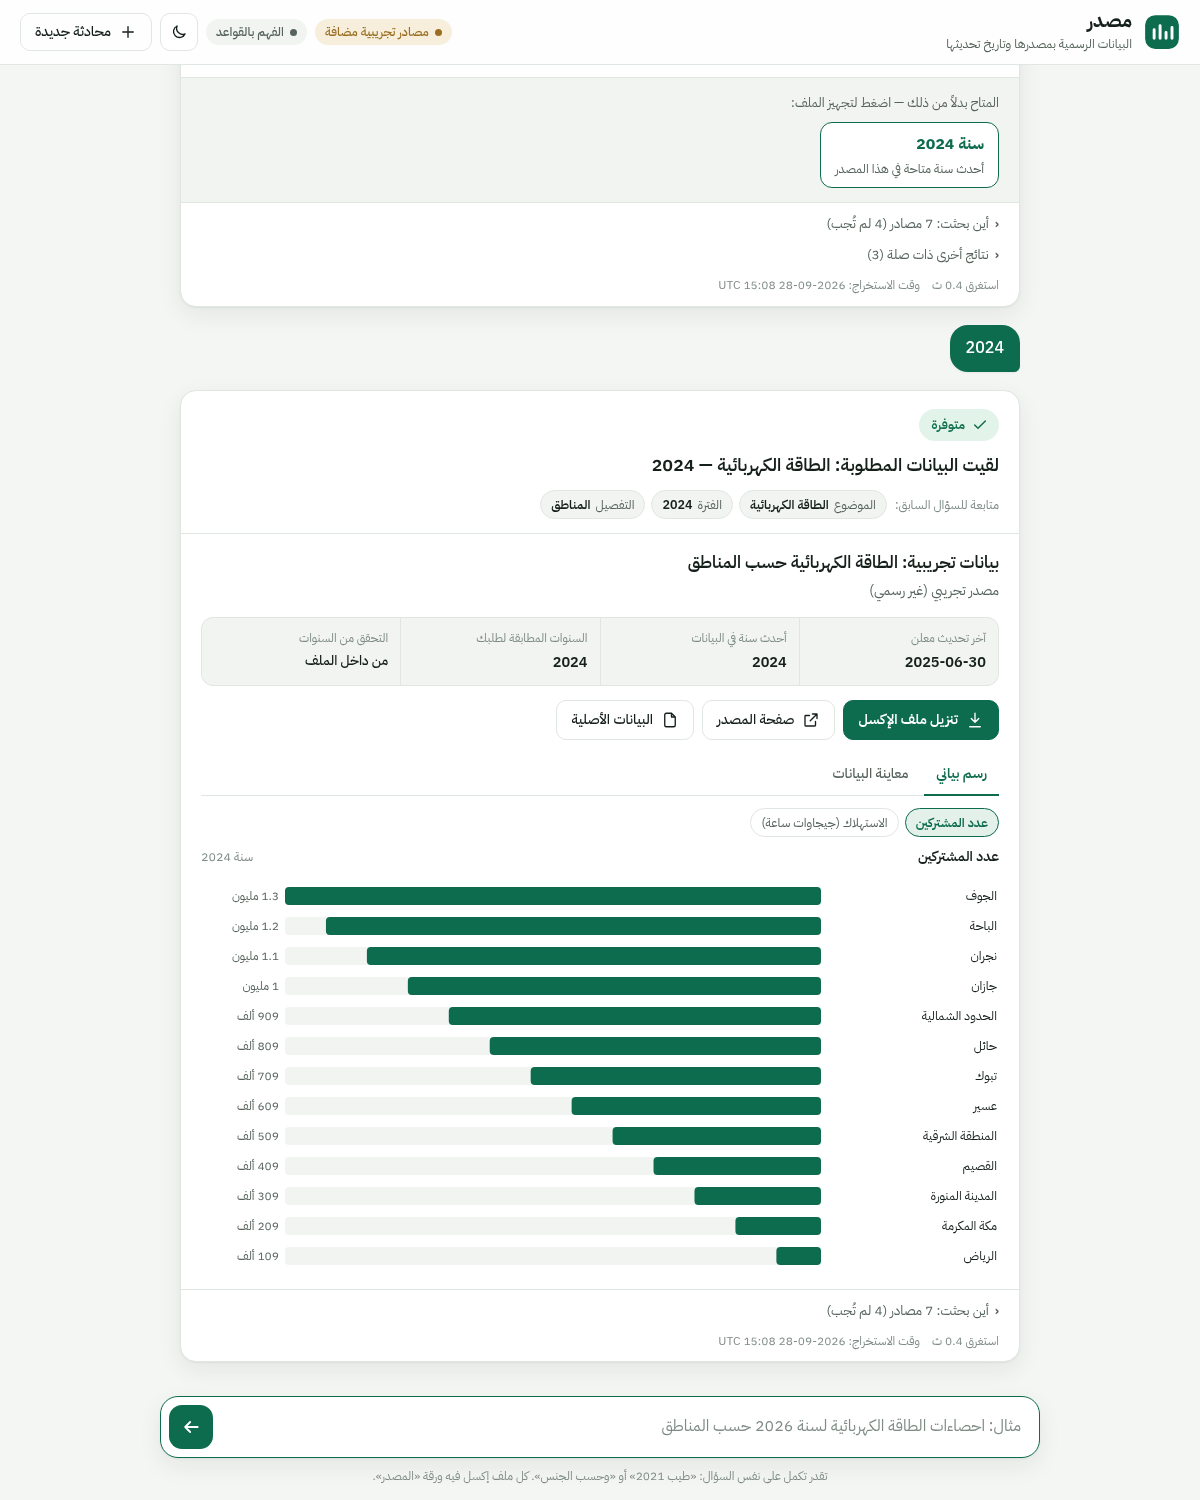
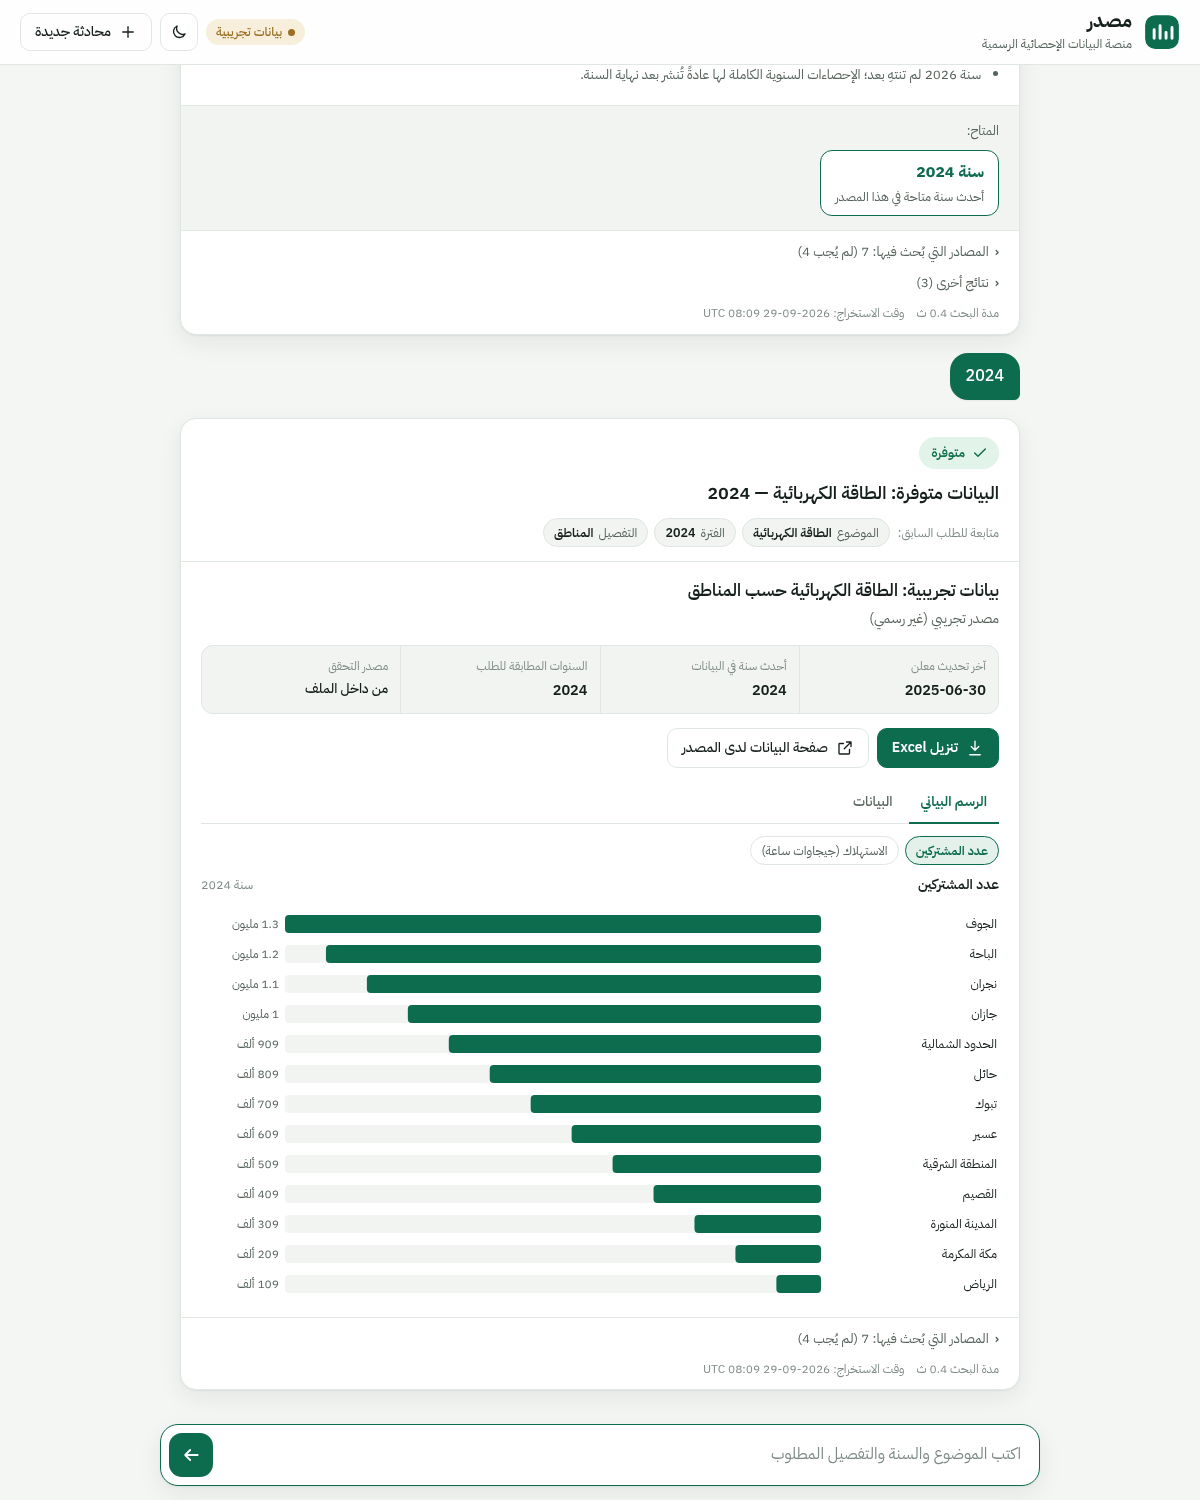
Point the presenter to the slides; screenshots of the official interface
The explanation that used to fill the landing page now lives in a separate
slide deck. The presenter guide says to send it along with the link and
access code, to open with it, and where the sources are named on the page;
the README describes the landing page as it now is.

Claude-Session: https://claude.ai/code/session_01Tg75axHmwA5TfndmgKJsWi

diff --git a/docs/PRESENTER.md b/docs/PRESENTER.md
@@ -128,7 +128,10 @@
 
 1. **الرابط**.
 2. **رمز الدخول** (في رسالة منفصلة عن الرابط).
-3. هذا الدليل، **الجزء الثاني**.
+3. **العرض التقديمي** (الشرائح): شرح الفكرة وطريقة العمل خارج المنصة، والمنصة
+   نفسها تبقى نظيفة للتجربة المباشرة. تذكّر مشاركته من قائمة **Share** قبل الإرسال،
+   وعبّئ في الشريحة الأولى اسم المقدّم والجهة والتاريخ، وفي الأخيرة رابط المنصة.
+4. هذا الدليل، **الجزء الثاني**.
 
 ---
 
@@ -146,11 +149,12 @@
 
 ## سيناريو العرض المقترح (١٠ دقائق)
 
-الأسئلة كلها بطاقات في الصفحة الرئيسية، فيكفي الضغط عليها.
+ابدأ بالشرائح (نحو ٥ دقائق) حتى شريحة «العرض المباشر»، ثم انتقل إلى المنصة.
+الأسئلة المقترحة ظاهرة في الصفحة الرئيسية، فيكفي الضغط عليها.
 
 | # | اضغط / اكتب | ماذا تقول |
 |---|---|---|
-| ١ | (الصفحة الرئيسية) | «مصدر يبحث في المصادر الرسمية مباشرة؛ أسماؤها أسفل الصفحة. نكتب السؤال كما نقوله.» |
+| ١ | (الصفحة الرئيسية) | «مصدر يبحث في المصادر الرسمية مباشرة؛ أسماؤها في سطر «المصادر» تحت الأمثلة. نكتب السؤال كما نقوله.» |
 | ٢ | **احصاءات الطاقة الكهربائية لسنة 2026 حسب المناطق** | «سنة 2026 لم تُنشر بعد. الوكيل لا يخمّن: فتح الملف وتأكد، ويقولها صراحة، ثم يقترح أحدث سنة موجودة.» |
 | ٣ | اضغط زر **السنة المقترحة** | «بضغطة الملف جاهز: رسم بياني حسب المناطق، ومعاينة البيانات، وزر تنزيل الإكسل.» |
 | ٤ | **نزّل الإكسل** وافتح ورقة «المصدر» | «كل رقم معه مصدره: الجهة، ورابط الملف الأصلي، وتاريخ التحديث المعلن، ووقت الاستخراج، وبصمة الملف.» |
@@ -190,8 +194,8 @@
 **ما المصادر؟**
 الهيئة العامة للإحصاء (واجهتان)، ووزارة الموارد البشرية ووزارة البيئة (بيانات
 لحظية)، وكابسارك، والبنك الدولي كمصدر دولي، ومنصة البيانات المفتوحة الوطنية
-(سدايا) بـ٣٧ جهة حكومية حين يكون الخادم داخل المملكة. قائمة المصادر أسفل الصفحة
-الرئيسية.
+(سدايا) بـ٣٧ جهة حكومية حين يكون الخادم داخل المملكة. أسماء المصادر المتاحة في
+سطر «المصادر» بالصفحة الرئيسية، والتفصيل في شريحة «المصادر».
 
 **لماذا البنك الدولي؟**
 لأنه موثوق وطويل المدى ويسد فجوات، لكنه ليس الجهة المنتجة للرقم. لذلك يأتي دائماً
@@ -204,7 +208,7 @@
 | صفحة انتظار عند فتح الرابط | الخادم كان نائماً ويصحو (دقيقة تقريباً). انتظر. |
 | «رمز الدخول غير صحيح» | تأكد من الرمز (الحروف الكبيرة والصغيرة تفرق). |
 | «مفتاح الذكاء الاصطناعي لا يعمل» أعلى الصفحة | المفتاح خاطئ أو بلا رصيد (مرّر المؤشر على الشارة يظهر السبب). الموقع يعمل كاملاً بالمحلل العربي؛ تجنّب فقط سؤال العامية (البند ٨). |
-| «المصادر لا تُجيب الآن» أعلى الصفحة | المواقع الحكومية لا تستجيب الآن. أعد تحميل الصفحة بعد دقيقتين، أو انتقل للخطة البديلة. |
+| «المصادر لا تستجيب» أعلى الصفحة | المواقع الحكومية لا تستجيب الآن. أعد تحميل الصفحة بعد دقيقتين، أو انتقل للخطة البديلة. |
 | «نسخة محفوظة» في الجواب | المصدر متوقف لحظياً، والجواب من آخر نسخة محفوظة بتاريخها. هذا مقصود ومكتوب بوضوح. |
 | «تعذّر» بجانب مصدر في «المصادر التي بُحث فيها» | ذلك المصدر لم يُجب هذه المرة؛ الجواب من المصادر التي أجابت. |
 

diff --git a/README.md b/README.md
@@ -124,9 +124,9 @@ masdar ask "الكهرباء 2024 حسب المناطق" --demo --max-sources 0 
 
 `masdar serve` يشغّل خادماً محلياً بلا أي مكتبة إضافية، ويفتح صفحة عربية:
 
-- **الصفحة الرئيسية**: ما الذي يبحث فيه الوكيل (أعداد محسوبة من الإعدادات
-  والفهارس المحلية لا من الشبكة)، وأسئلة عرض يبيّن كل منها جانباً من عمله،
-  والمصادر المؤكَّدة مصنّفة: رسمي، لحظي، دولي.
+- **الصفحة الرئيسية**: رسمية وخالية من الشرح: عنوان، وأسئلة مقترحة تُضغط
+  مباشرة، وسطر بأسماء الجهات التي يبحث فيها هذا الخادم. أما شرح الفكرة وطريقة
+  العمل فمكانه العرض التقديمي المصاحب، لا المنصة.
 - **بطاقة الجواب**: الحكم (متوفرة / جزئياً / غير متوفرة / غير مؤكدة / تعذّر
   الوصول)، وما فُهم من السؤال، والجهة الناشرة، وتاريخ آخر تحديث معلن، وأحدث
   سنة، وزر **تنزيل ملف الإكسل**، ورابط المصدر. ثم تبويبات: **رسم بياني**،
@@ -159,7 +159,7 @@ masdar ask "الكهرباء 2024 حسب المناطق" --demo --max-sources 0 
   مفتاح الذكاء الاصطناعي. والخادم يستمع على منفذ المنصة (`PORT`).
 - **خادم خارج المملكة** (`MASDAR_OUTSIDE_KSA=1`): تحقّقنا من خارج المملكة أن كل
   المصادر تُجيب عدا منصة البيانات المفتوحة الوطنية؛ فلا تُسأل هناك أصلاً (بدل انتظار
-  مهلة في كل سؤال)، وتذكرها الصفحة الرئيسية «غير متاحة من هذا الخادم».
+  مهلة في كل سؤال)، ولا تظهر في سطر المصادر بالصفحة الرئيسية.
 - **يجهّز نفسه عند التشغيل** (`MASDAR_WARMUP_ON_START=1`): الاستضافة المجانية تنام
   وتفقد النسخ المحفوظة، فيسأل الخادم أسئلة العرض بنفسه حين يصحو، وتعرض الصفحة
   «جارٍ التجهيز ٣/٨» ثم «جاهز»، وتُخفي أي سؤال مقترح لم يُجبه مصدر.
